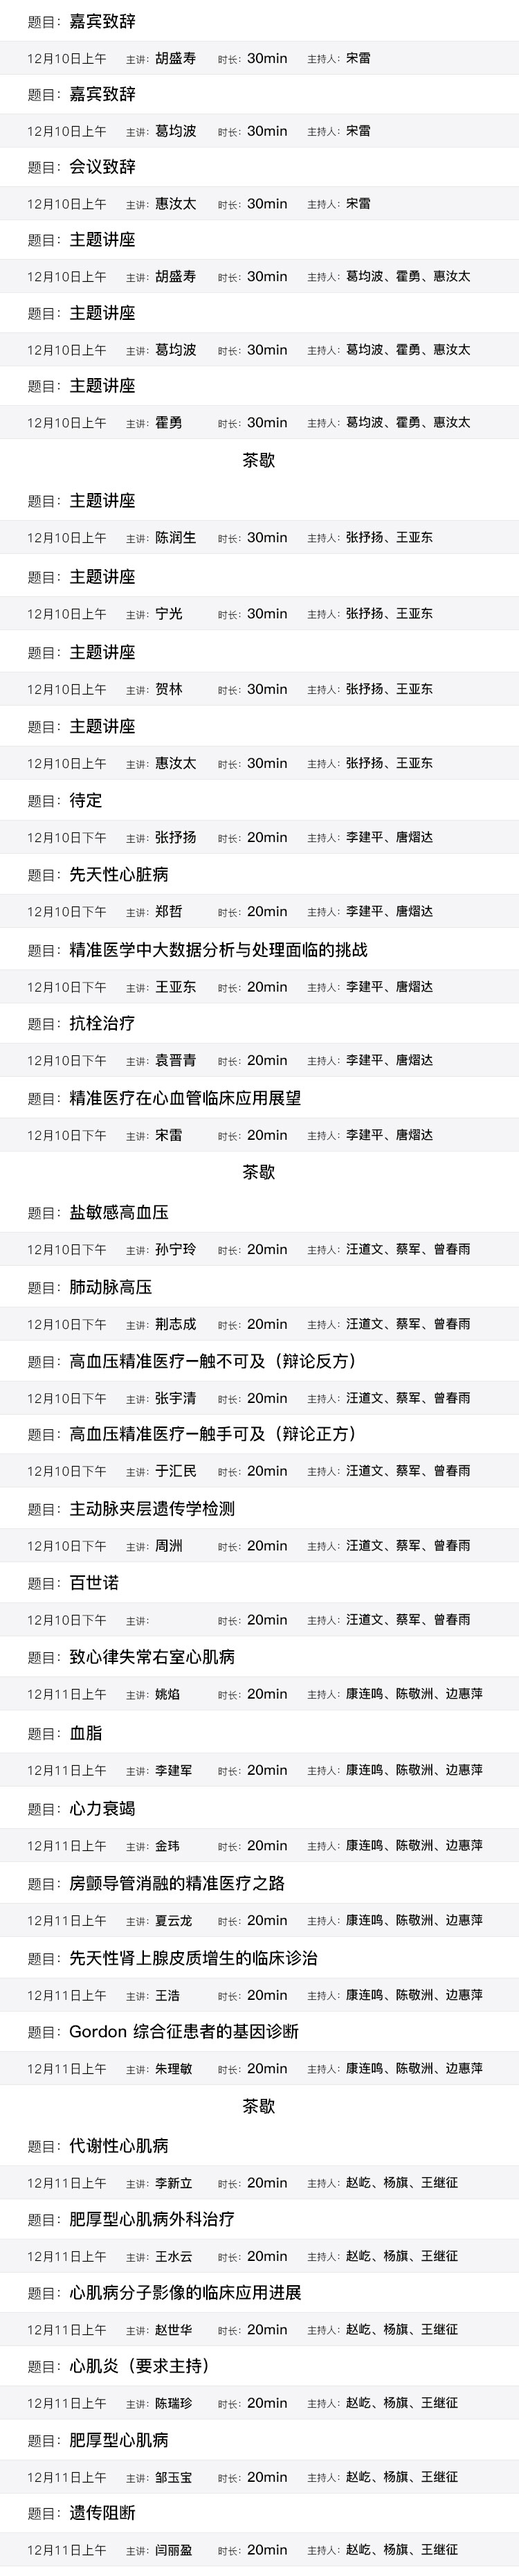
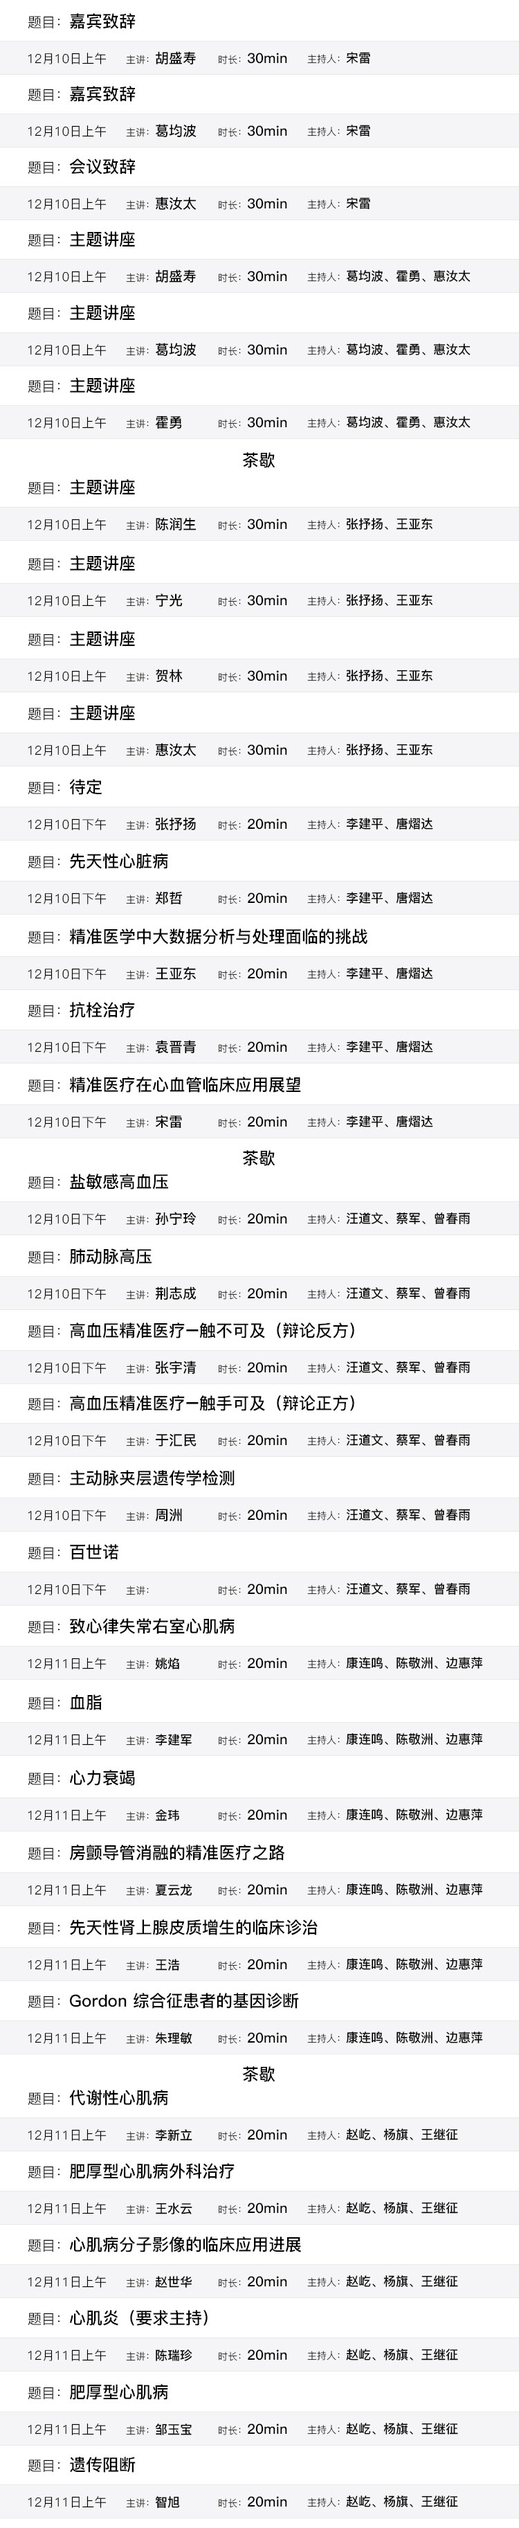
修改

diff --git a/index.html b/index.html
@@ -90,9 +90,9 @@
 				</nav>
 				<div class="banner-info">
 					<h2>
-						中国精准心血管病学峰会 (2016)<br />
-						国家心血管病中心精准心血管疾病诊疗高级培训班<br />
-						罕见心血管疾病诊疗进展学术研讨会<br />
+						<i>中国精准心血管病学峰会 (2016)</i>
+						<i>国家心血管病中心精准心血管疾病诊疗高级培训班</i>
+						<i>罕见心血管疾病诊疗进展学术研讨会</i>
 					</h2>
 					<p>
 						2016.12.10 – 12.11 · 北京
@@ -115,7 +115,7 @@
 						<h3 class="p_hidden">大会简介 <span>Brief</span> <i>Introduction</i></h3>
 					</div>
 					<div class="col-md-7 about_grid_right_w3agile">
-						<p>尊敬的各位医学同道： <br/>精准医学作为一种崭新医学模式，正在逐步走到我们的身边。精准医学是仅仅强调基因吗？心血管疾病的精准医学时代到来了吗？精准医学在心血管领域如何应用？我国精准心血管病诊治取得了哪些进展，还存在什么问题？这些都是近年来大家关注的焦点。因此，国家心血管病中心、中华医学会心血管病分会共同主办了本届“中国精准心血管病学峰会（2016）、国家心血管病中心精准心血管疾病诊疗高级培训班、罕见心血管疾病诊疗进展学术研讨会”。 <span>罕见心血管疾病是心血管病领域的老大难，虽然发病率低，但早期诊断难、预后差，是造成心源性猝死和难治性心力衰竭的重要原因。罕见病80%以上是遗传性的，40%的患者被误诊，1/4的患者最长需等症状出现后30年才确诊。由此可见，罕见心血管疾病的规范、精准诊疗非常必要、迫切。精准医学理念，也为罕见心血管疾病的精准诊疗带来了机遇。</span> <span>希望通过本次与会院士、专家们的精彩报告和讨论，为心血管专业医生和其他专业感兴趣的同道提供崭新的、客观的、全面的对心血管病精准医学和罕见心血管疾病的认识，交流相关知识和研究进展，分享临床典型病例，共同提高该类疾病的诊疗水平，为我国“心血管疾病精准医学应用推广”和“罕见心血管疾病诊治”尽一份力量。<br/> 热烈欢迎各位医学同道积极参会。古老的北京，冬天也别有风味！</span> <span class="p_color"><i class="iconfont">&#xe66b;</i>会议时间：2016.12.10 – 12.11（9号报到，10号全天、11号上午半天学术会议） <br/><i class="iconfont">&#xe63a;</i>会议地点：北京（具体另行通知）<a target="_blank" href="http://event.3188.la/map/BMap?eventId=510687756"><i class="iconfont">&#xe767;</i></a></span> <span>会议名誉主席：胡盛寿、葛均波 <br/>会议主席：惠汝太、霍勇 <br/>会议执行主席：宋雷、李建平、唐熠达</span></p>
+						<p>尊敬的各位医学同道： <br/>精准医学作为一种崭新医学模式，正在逐步走到我们的身边。精准医学是仅仅强调基因吗？心血管疾病的精准医学时代到来了吗？精准医学在心血管领域如何应用？我国精准心血管病诊治取得了哪些进展，还存在什么问题？这些都是近年来大家关注的焦点。因此，国家心血管病中心、中华医学会心血管病分会共同主办了本届“中国精准心血管病学峰会（2016）、国家心血管病中心精准心血管疾病诊疗高级培训班、罕见心血管疾病诊疗进展学术研讨会”。 <span>罕见心血管疾病是心血管病领域的老大难，虽然发病率低，但早期诊断难、预后差，是造成心源性猝死和难治性心力衰竭的重要原因。罕见病80%以上是遗传性的，40%的患者被误诊，1/4的患者最长需等症状出现后30年才确诊。由此可见，罕见心血管疾病的规范、精准诊疗非常必要、迫切。精准医学理念，也为罕见心血管疾病的精准诊疗带来了机遇。</span> <span>希望通过本次与会院士、专家们的精彩报告和讨论，为心血管专业医生和其他专业感兴趣的同道提供崭新的、客观的、全面的对心血管病精准医学和罕见心血管疾病的认识，交流相关知识和研究进展，分享临床典型病例，共同提高该类疾病的诊疗水平，为我国“心血管疾病精准医学应用推广”和“罕见心血管疾病诊治”尽一份力量。<br/> 热烈欢迎各位医学同道积极参会。古老的北京，冬天也别有风味！</span> <span class="p_color"><i class="iconfont">&#xe66b;</i>会议时间：2016.12.10 – 12.11（9号报到，10号全天、11号上午半天学术会议） <br/><i class="iconfont">&#xe63a;</i>会议地点：北京友谊宾馆贵宾楼（北京中关村南大街一号） </span> <span>会议名誉主席：胡盛寿、葛均波 <br/>会议主席：惠汝太、霍勇 <br/>会议执行主席：宋雷、李建平、唐熠达</span></p>
 					</div>
 					<div class="clearfix"> </div>
 				</div>
@@ -484,11 +484,11 @@
 					</div>
 					<div class="col-md-3 team-grid">
 						<div class="w3l_team_grd">
-							<img src="images/Invited_experts/28_闫丽盈.jpg" alt=" " class="img-responsive" />
+							<img src="images/Invited_experts/28_智旭.jpg" alt=" " class="img-responsive" />
 						</div>
 						<div class="team_grid1_agileits">
-							<h4>闫丽盈</h4>
-							<p>北京大学第三医院教育部辅助生殖重点实验室副主任</p>
+							<h4>智旭</h4>
+							<p>北京大学第三医院副研究员、医师，国家点研发计划“精准医学研究”专项课题骨干</p>
 						</div>
 					</div>
 					<div class="col-md-3 team-grid">
@@ -607,9 +607,8 @@
 			<div class="container">
 				<h3>会议日程</h3>
 				<p class="aut">Agenda</p>
-				<div class="wthree_services_grids" style="overflow: hidden;">
-					<img class="p_hidden" src="images/process1.jpg" />
-					<img class="p_show hidden" src="images/process2.jpg" />
+				<div class="wthree_services_grids" style="overflow: hidden; text-align: center;">
+					<p>待定</p>
 				</div>
 			</div>
 		</div>

diff --git a/css/style.css b/css/style.css
@@ -358,7 +358,7 @@ body a:hover{
 	line-height:1.8em;
 }
 .about_grid_right_w3agile p span{
-	display:block;
+	display:block!important;
 	margin:1em 0 0;
 }
 .agileinfo_about_grids_bottom_right{
@@ -1742,10 +1742,15 @@ team_grid1_agileits h4{
 	font-size: 1.5em;
 	color: #999;
 }
-.p_color i:last-child{
+/*.p_color i:last-child{
 	padding-left: 4px;
 	color: #FFB445;
-}
+}*/
 .w3l_team_grd{
 	background: #ddd;
+}
+.banner-info i{
+	display: block;
+	padding-top: 10px;
+	font-style: normal;
 }
